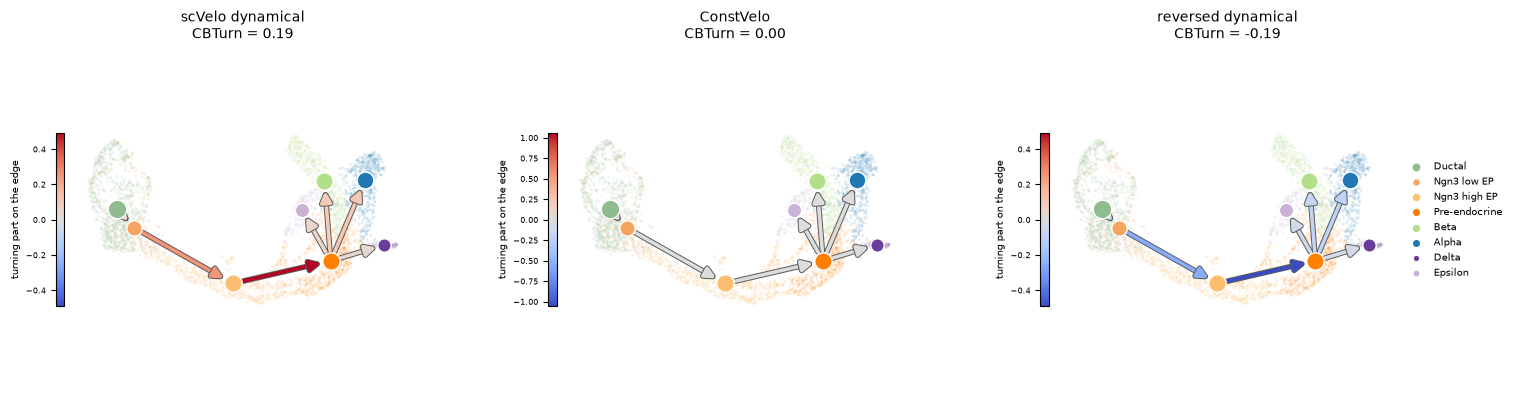
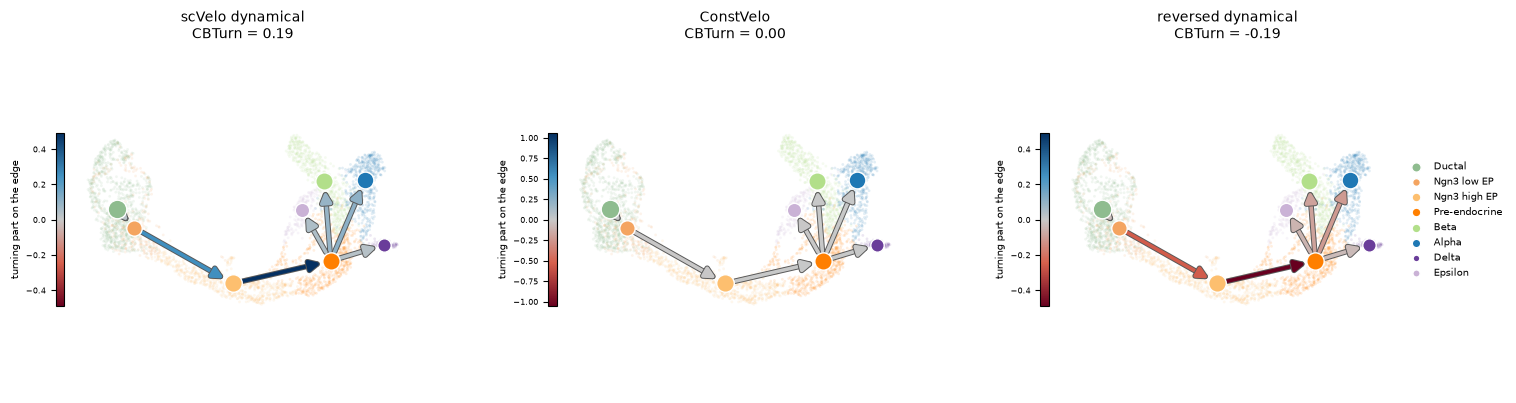
Restore the blue-grey-red palette of the CBTurn topology plot

diff --git a/veloeval/pl.py b/veloeval/pl.py
@@ -140,8 +140,8 @@ def cbturn(
     Each cell type is a node at the median of its cells in ``obsm['X_{basis}']``,
     sized by its number of cells, and each of *cluster_edges* an arrow from
     source to target, as in scVelo's PAGA plot.  The arrow's colour is the
-    edge's turning part (see :func:`cbturn_parts`): red where the velocity on
-    the edge turns with it, blue where against it, grey where nothing on the
+    edge's turning part (see :func:`cbturn_parts`): blue where the velocity on
+    the edge turns with it, red where against it, grey where nothing on the
     edge sets it apart from the others.  The
     embedding only places the nodes: the scores are computed in gene or latent
     space, and an arrow's angle in the plot says nothing about the velocity.
@@ -175,8 +175,8 @@ def cbturn(
         ve.pl.cbturn(adata, ref, label_key="clusters", cluster_edges=edges)
     """
     import matplotlib.pyplot as plt
-    from matplotlib import colormaps, patheffects
-    from matplotlib.colors import Normalize
+    from matplotlib import patheffects
+    from matplotlib.colors import LinearSegmentedColormap, Normalize
     from matplotlib.patches import FancyArrowPatch
 
     names, U, cells, D = _edge_turning(
@@ -192,7 +192,9 @@ def cbturn(
         vmax = float(np.abs(turn).max())
         if vmax <= 1e-6 * reach:
             vmax = reach
-    cmap = colormaps["coolwarm"]
+    cmap = LinearSegmentedColormap.from_list(
+        "turn", ["#67001f", "#d6604d", "#c8c8c8", "#4393c3", "#053061"]
+    )
     norm = Normalize(-vmax, vmax)
 
     if ax is None:

diff --git a/tests/test_metrics.py b/tests/test_metrics.py
@@ -1905,9 +1905,8 @@ def test_pl_cbturn_draws_what_cbturn_scores(rng):
     const = a.copy()
     const.layers["velocity"] = np.tile(V[0], (a.n_obs, 1))
     ax = ve.pl.cbturn(const, **TURN)
-    middle = matplotlib.colormaps["coolwarm"](0.5)
     for arrow in [p for p in ax.patches if isinstance(p, FancyArrowPatch)]:
-        assert np.allclose(arrow.get_facecolor(), middle)
+        assert np.ptp(arrow.get_facecolor()[:3]) < 0.01, "grey"
     plt.close("all")
 
     ax = ve.pl.cbturn_parts(a, **TURN)

diff --git a/docs/api/pl.md b/docs/api/pl.md
@@ -51,8 +51,8 @@ ve.pl.cbturn_parts(adata, ref, label_key="clusters", cluster_edges=edges)
 
 `cbturn` puts the same turning parts on the differentiation topology, as in
 scVelo's PAGA plot: each cell type a node at the median of its cells in the
-UMAP, each edge an arrow from source to target, red where the velocity turns
-with the edge, blue where against it, grey where nothing sets the edge apart.
+UMAP, each edge an arrow from source to target, blue where the velocity turns
+with the edge, red where against it, grey where nothing sets the edge apart.
 The colour bar spans the run's own largest edge; pass `vmax` to put several
 runs on one scale. The UMAP only places the nodes; the scores are computed in
 gene space.
